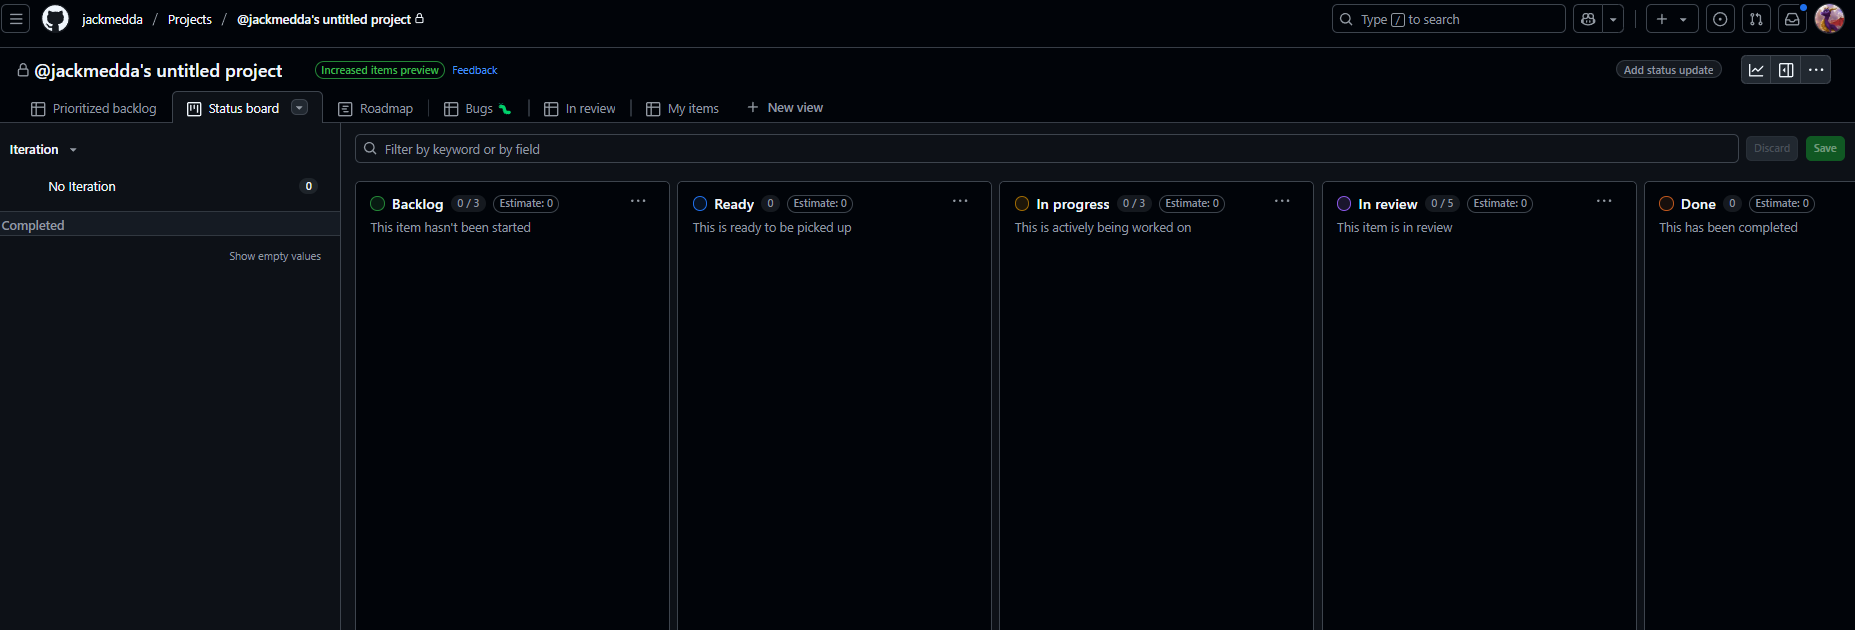
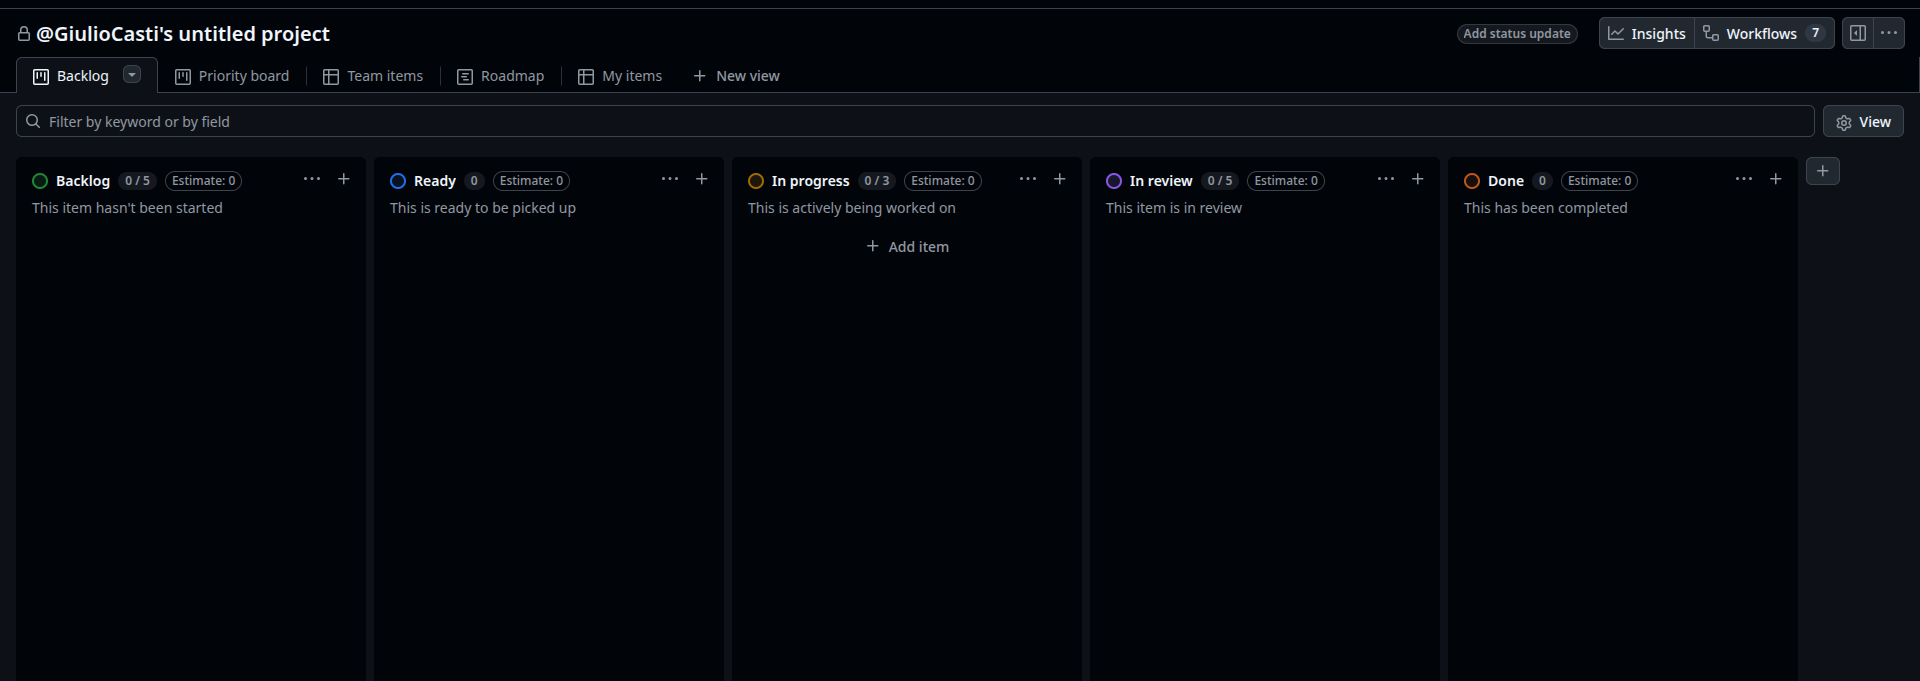
Lezione 3 Git

diff --git a/lezioni/3-Git/README.md b/lezioni/3-Git/README.md
@@ -7,7 +7,7 @@
 1. Introduzione a Git
 - Cos'è Git? Concetti base e architettura
 - Flusso di lavoro con Git: Creazione di un repository
-- Monitorazione working tree
+- Monitoraggio working tree
 - Versioni ramificate (branch) e riunificate (merge)
 - Repository remoto
 - Vincoli di versioning (.gitignore)
@@ -120,21 +120,19 @@ Il comando _commit_ (impegno) è un comando fondamentale in Git e serve per aggi
 
 Vari `git add` e `git commit` generano una catena di versioni, in cui tipicamente l'ultima aggiunta è la versione attuale dei propri file. Essa è la testa del nostro ramo di versioni.
 
-<!-- .element: class="fragment"  -->
-
 Questo aspetto è importante perché Git associa una referenza simbolica, chiamata **HEAD**, che punta alla tua posizione nello storico dei commit.<br>
 A ogni commit (creazione di versione), **HEAD** si sposta, tipicamente tenendo traccia della "testa" del ramo di versioni.
 
 <!-- New section -->
 
-## Monitorazione working tree
+## Monitoraggio working tree
 
 È spesso necessario controllare e verificare che i nostri comandi Git siano applicati ai file giusti e controllare che sia tutto in ordine.<br>
 Esistono alcuni comandi utili per monitorare il ciclo di vita del software e gestire il repository.
 
 <!-- New subsection -->
 
-`git status`: elenca dall'alto verso il basso i) i file che presentano differenze tra l'indice (area di staging) e l'HEAD attuale, ii) i file che presentando differenze tra l'indice (area di staging) e il workspace (working tree), iii) i file del workspace che non sono tracciati da Git.
+`git status`: elenca dall'alto verso il basso 1) i file che presentano differenze tra l'indice (area di staging) e l'HEAD attuale, 2) i file che presentando differenze tra l'indice (area di staging) e il workspace (working tree), 3) i file del workspace che non sono tracciati da Git.
 
 ![](img/git_status.png)
 
@@ -222,11 +220,29 @@ Bisogna quindi risolvere questi conflitti. Seguendo le [linee guida](https://git
 
 Vediamo il metodo più semplice, ovvero modificare il file.
 
+L'ordine degli eventi è importante per capire il workflow:
+
+1. Lanciamo `git merge <altro-branch>`
+2. Git tenta automaticamente di fondere i file dei due branch
+3. Per i file in conflitto, Git **scrive direttamente nel file** dei marcatori speciali (`<<<<<<<`, `=======`, `>>>>>>>`) per segnalare le parti in conflitto
+4. Il merge si **interrompe**: il commit di merge non viene creato finché i conflitti non sono risolti
+5. Sta a noi aprire i file, scegliere cosa tenere e rimuovere i marcatori
+
+<!-- New subsection -->
+
+NOTA: i marcatori sono già **fisicamente nei file** subito dopo il `git merge`. Non serve nessun comando aggiuntivo per "vederli" — basta aprire il file.
+
+
 ![](img/git_merge_conflicts_file_placeholders.png)
 
 La version del branch _nuova\_feature_ sembra migliore. Cancelliamo tutto e teniamo solo il contenuto fra "======" e ">>>>>>>> nuova_feature".
 
-<!-- .element: class="fragment" data-fragment-index="1" -->
+<!-- New subsection -->
+
+
+6. Con `git add <file>` segnaliamo a Git che il conflitto è risolto
+7. Con `git commit` finalizziamo il merge
+
 
 <!-- New subsection -->
 
@@ -283,7 +299,7 @@ Il primo comando importante da imparare con repository remoti è `git clone <url
 
 <!-- .element: class="fragment" -->
 
-Col nostro esempio, il comando completo sarebbe `git clone [email redacted]:project.git`
+Col nostro esempio, il comando completo sarebbe `git clone [email redacted]:project.git`
 
 <!-- .element: class="fragment" -->
 

diff --git a/README.md b/README.md
@@ -20,8 +20,8 @@ Tutoraggio del corso di [Ingegneria del Software](https://unica.coursecatalogue.
 | [0](https://giuliocasti.github.io/Tutoraggio-ISW-IADA-2025-2026/lezioni/0-Introduzione/) | Introduzione  |
 | [1](https://github.com/giuliocasti/Tutoraggio-ISW-IADA-2025-2026/blob/main/lezioni/1-OOP/oop.ipynb)  | Object Oriented Programming (OOP) |
 | [2](https://giuliocasti.github.io/Tutoraggio-ISW-IADA-2025-2026/lezioni/2-UML/) | Esercitazione UML |
-<!-- | [2](https://giuliocasti.github.io/Tutoraggio-ISW-IADA-2025-2026/lezioni/2-Git/) | Git e GitHub |
-| [3](https://giuliocasti.github.io/Tutoraggio-ISW-IADA-2025-2026/lezioni/3-BestPractices/) | Best Practices |
+| [3](https://giuliocasti.github.io/Tutoraggio-ISW-IADA-2025-2026/lezioni/3-Git/) | Git e GitHub |
+<!-- | [3](https://giuliocasti.github.io/Tutoraggio-ISW-IADA-2025-2026/lezioni/3-BestPractices/) | Best Practices |
 | [4.1](https://github.com/giuliocasti/Tutoraggio-ISW-IADA-2025-2026/blob/main/lezioni/4-Optimization/data_analytics.ipynb) | Ottimizzazione Esecuzione (Data Analytics) |
 | [4.2](https://github.com/giuliocasti/Tutoraggio-ISW-IADA-2025-2026/blob/main/lezioni/4-Optimization/optimization.ipynb) | Ottimizzazione Esecuzione (Computing Optimization) |
 | [4.3](https://github.com/giuliocasti/Tutoraggio-ISW-IADA-2025-2026/blob/main/lezioni/4-Optimization/parallelism.ipynb) | Ottimizzazione Esecuzione (Parallelism) |